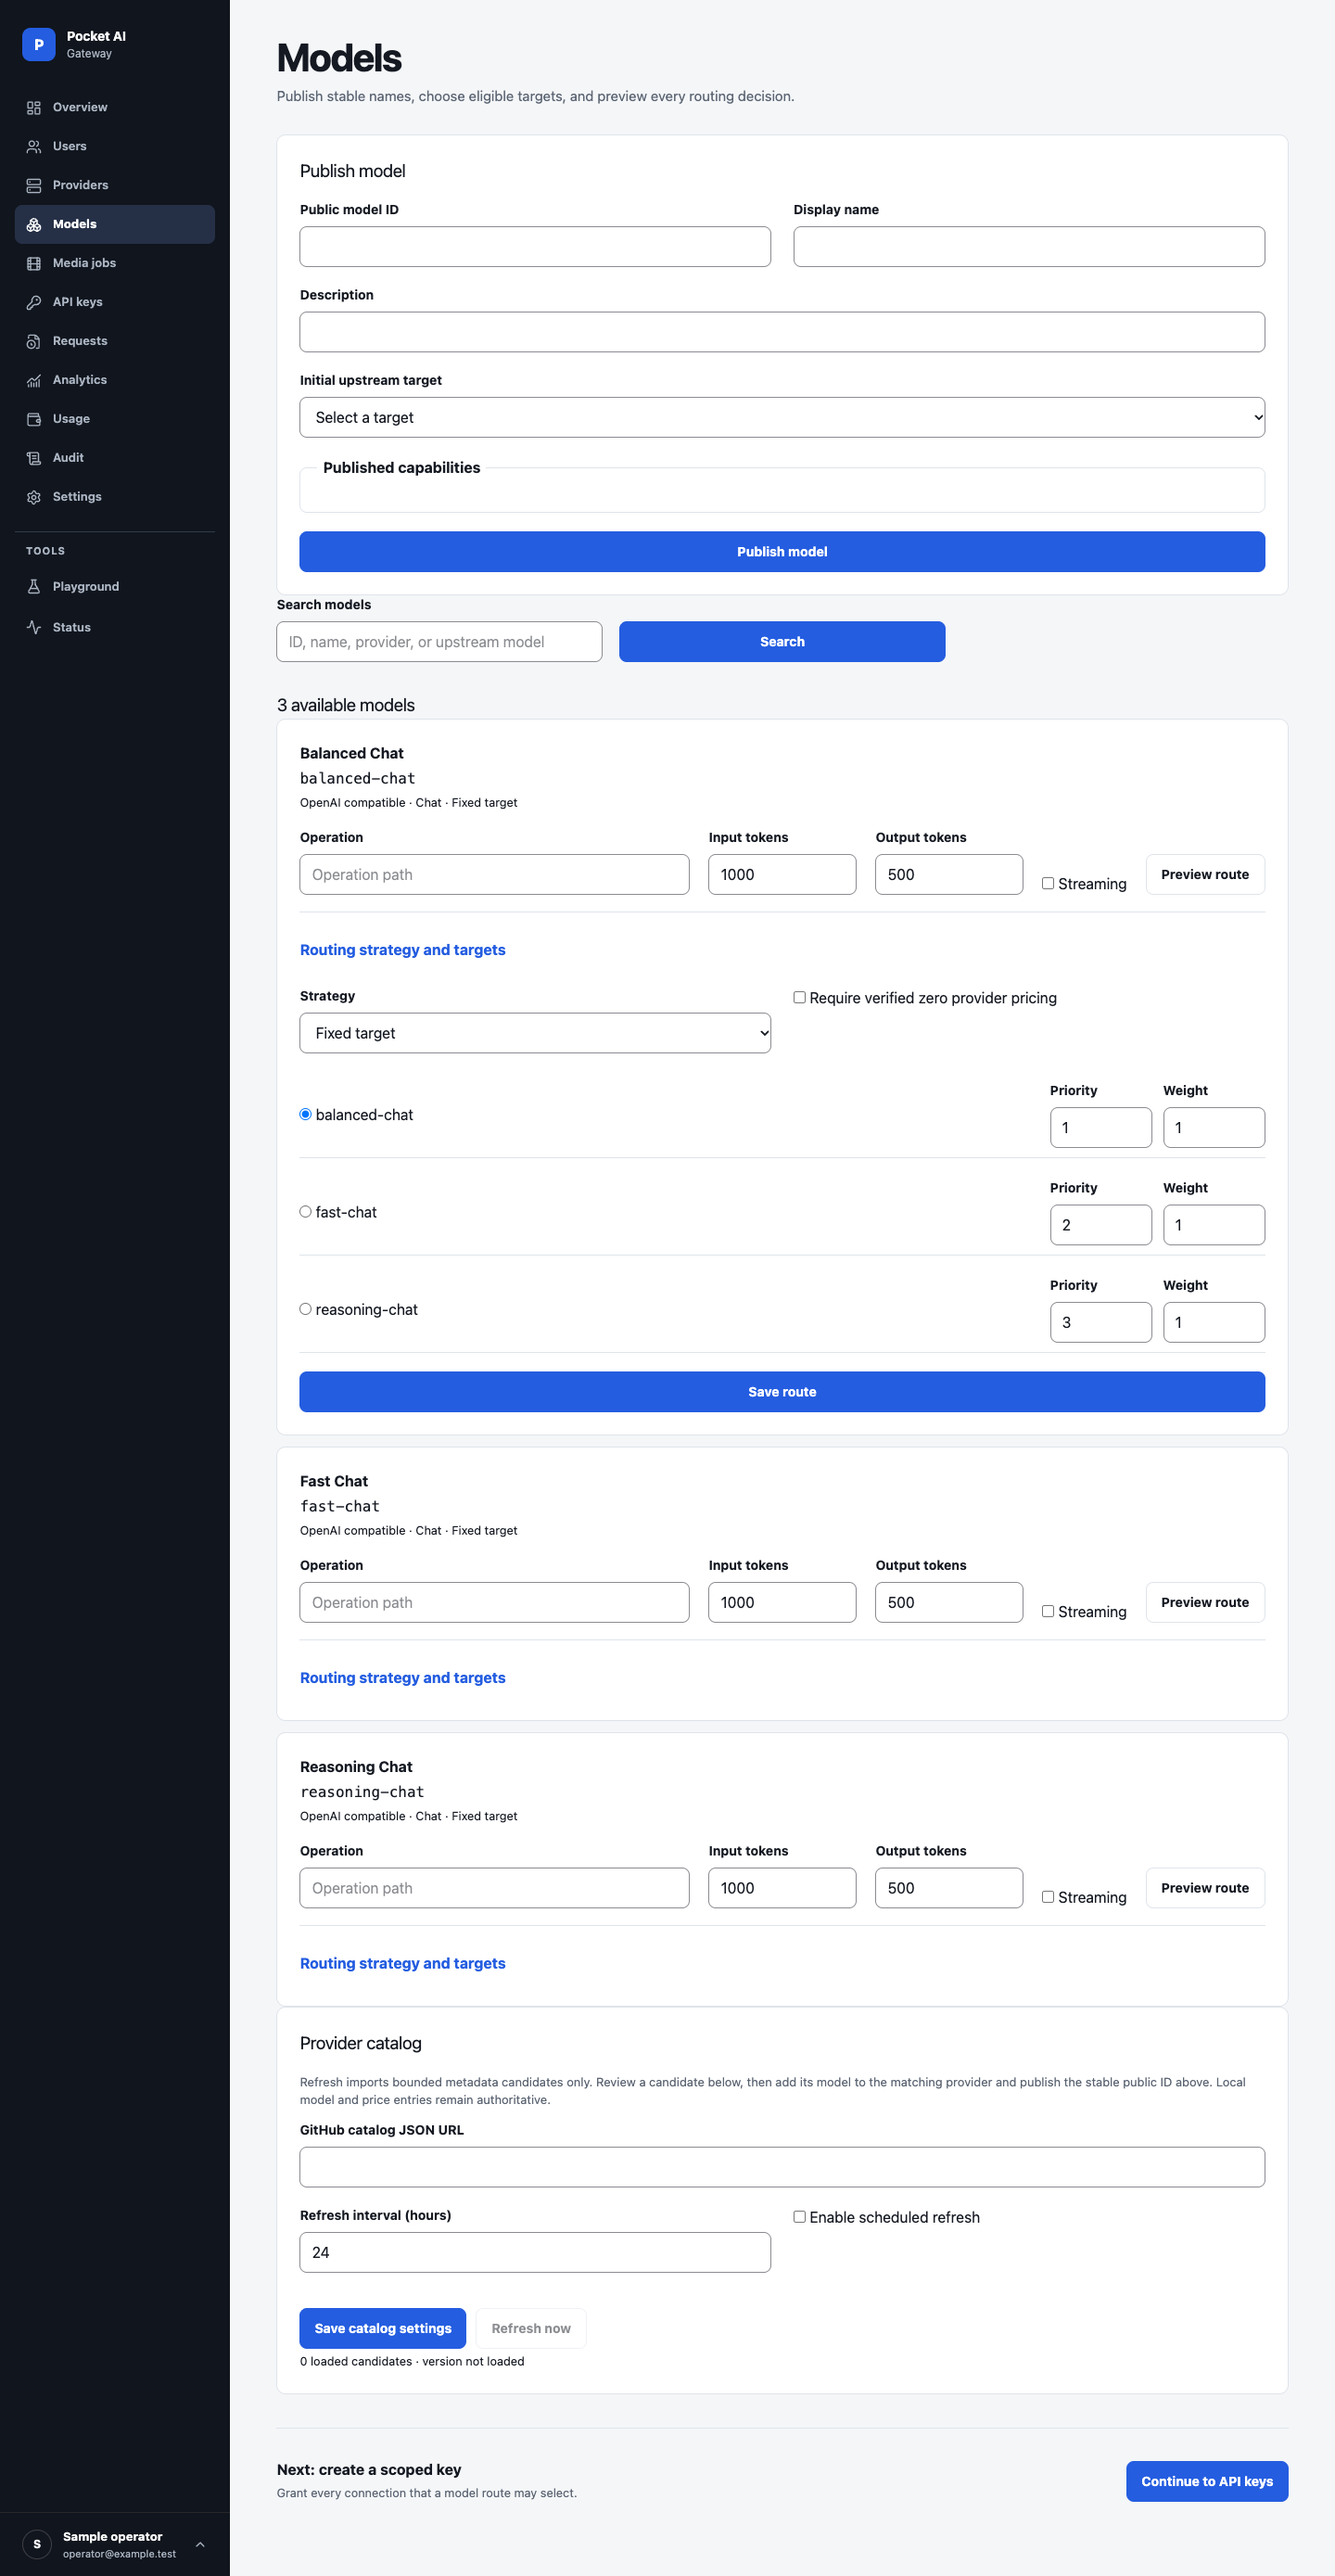
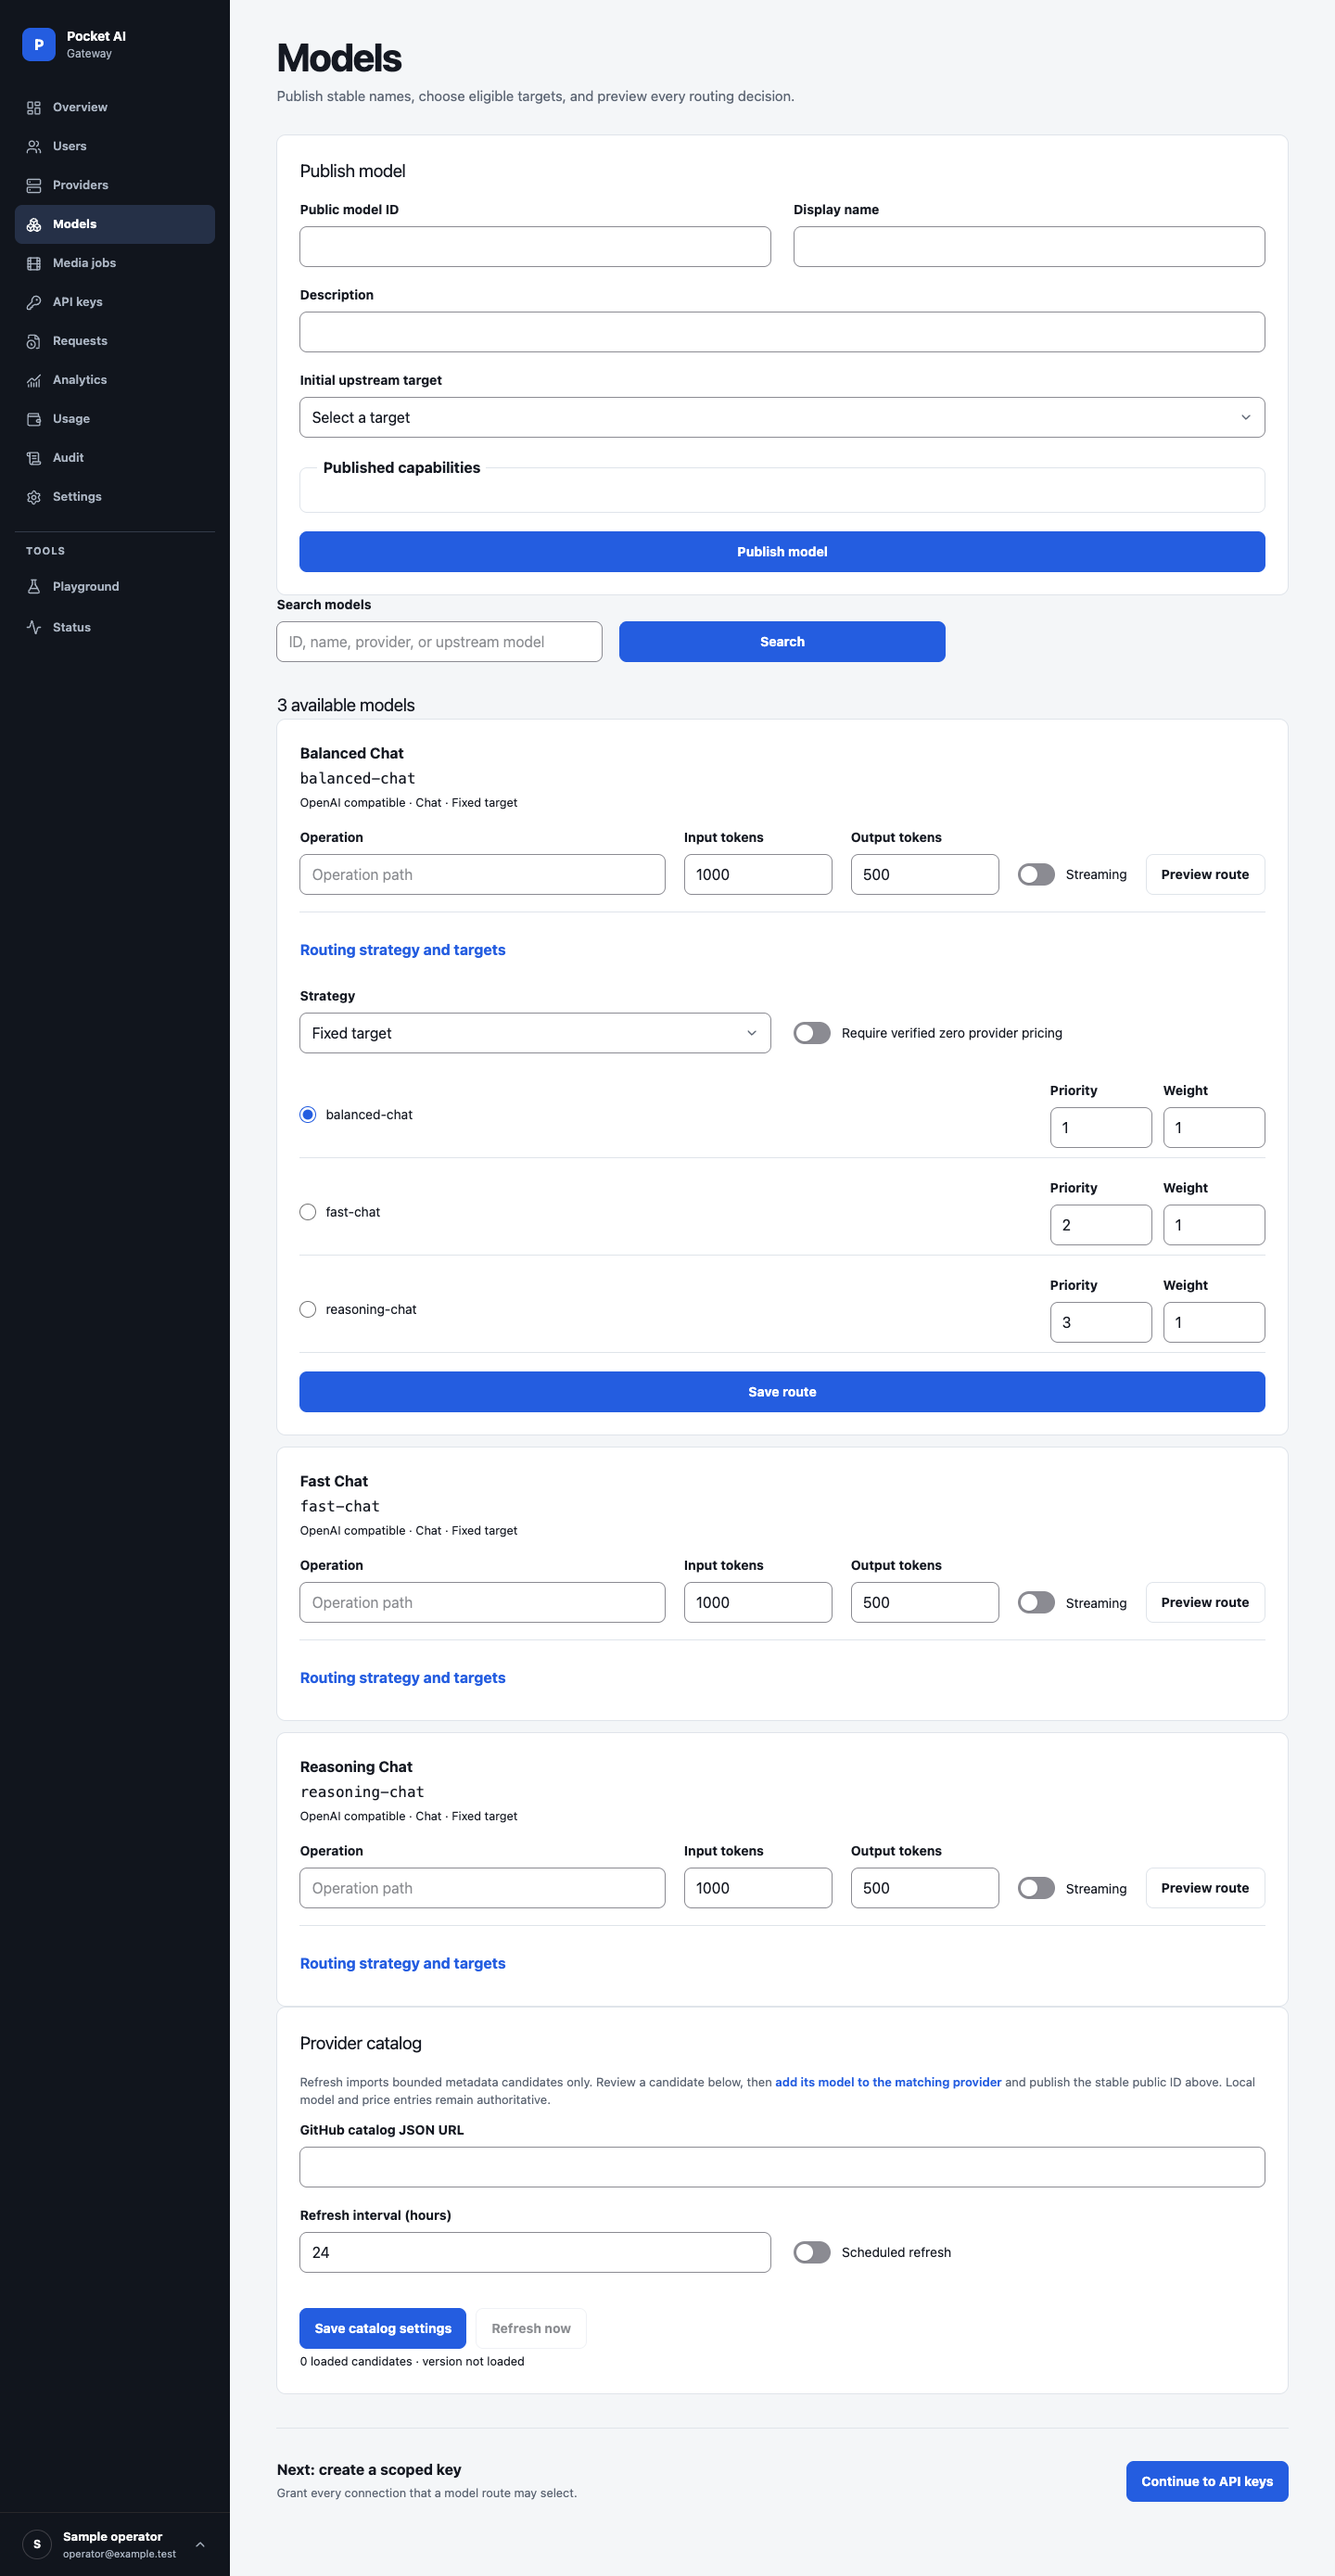
docs: regenerate screenshots with the refined controls

diff --git a/docs/plan/README.md b/docs/plan/README.md
@@ -191,6 +191,10 @@ The published overview showed the desktop account menu floating above an empty s
 
 Reviewing the new analytics page exposed a demo-seed bug: backdated requests kept their real first-byte time, so the example showed a six-day time to first byte. The seed now shifts `first_byte_at` with the other timestamps and streams every other OpenAI request, so both response modes appear. `go test ./scripts/demo` now asserts that streaming and synchronous requests exist and that every first byte falls within its request. This assertion failed on the old seed with 93 out-of-range first bytes.
 
+### Dashboard controls — 2026-09-25
+
+The full-page Providers capture showed native checkboxes for on/off settings, native select arrows pressed against the right edge, a raw `custom · … · enabled` line, and three example connections sharing one base URL. A `Switch` primitive (native checkbox with `role="switch"`) now covers private-network access, connection enablement, route-preview streaming, free-only routing, scheduled catalog refresh, and playground streaming. Selects draw a padded chevron, read-only fields render muted, and help-text links are distinguishable. Connection cards show preset, adapter, and credential labels, a compact base URL, and an enabled switch. The preset form shows the adapter label rather than the preset name and lists readable capabilities. Demo connections use distinct paths, and the seed test asserts they differ. Typecheck and the 87 frontend tests passed, the design detector found nothing, and all 24 full-page screenshots were regenerated with every desktop account menu anchored.
+
 Implement one bounded work item at a time in this repository. Update its status and evidence after checks pass. Review financial/security/data-loss boundaries before declaring the containing phase complete. Do not generate all future directories, tables, interfaces, or placeholder endpoints upfront.
 
 The v0.1 implementation phases are complete, with the documented Phase 8–9 compatibility subset implemented. Before publication, select the final candidate, verify its Linux artifacts and sustained resource behavior, and configure signing/reporting/publication access. The [release checklist](../project/release-checklist.md) tracks those gates; [human tasks](../project/human-tasks.md) track external prerequisites. Additional vendor API families and remote storage remain separate implementation work in the [API parity inventory](../project/api-parity-inventory.md) and decisions.
